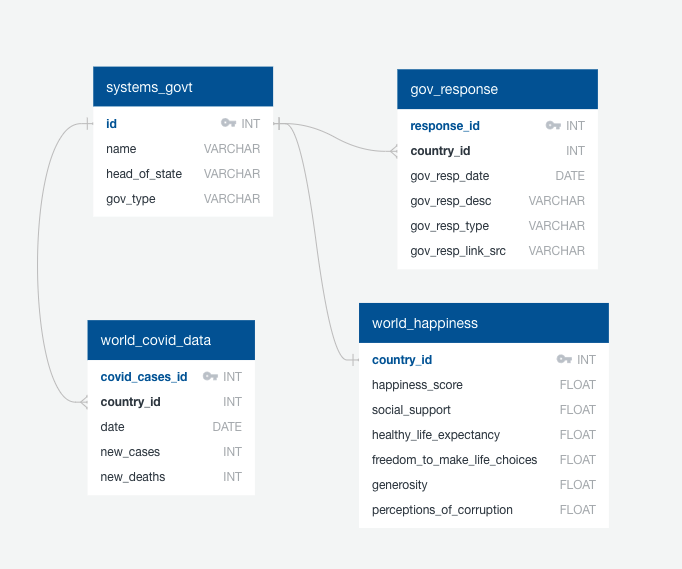
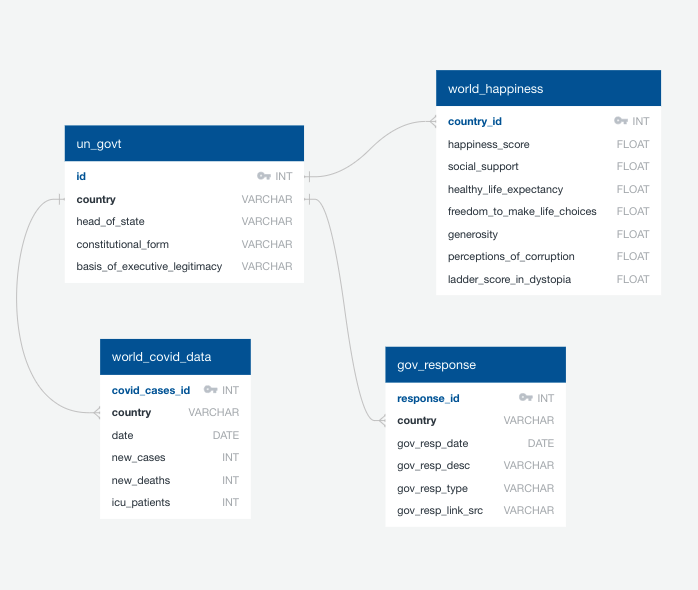
Readme

diff --git a/Tamey_working_directory/readme.md b/Tamey_working_directory/readme.md
@@ -6,46 +6,62 @@ Members: Avery Croley, Karen Pearson, Tamara Washington
 ![globe_image.png](images/globe_image.png)
 
 ### **Project Overview**
-Create a database that combines datasets regarding: 2020 World Happiness index, world deaths from Covid-19 and governments responses around the world.
+The Covid-19 pandemic has changed the world in unimaginable ways. It is arguable the worse pandemic the world has seen in 100 years. No aspect of life was left untouched including work, schools, social impacts and the economy. 
+
+Our Covid 19 Happiness Database complies data from countries around the world and can be used to see how Covid-19 factors affect the happiness score of that population.
+
+Queries our database can answer;
+
+- What type of government had the happiest/unhappiest outcome during the year with Covid-19?
+- What countries were the happiest/unhappiest because of the governments positive/negative actions due to Covid-19.
+- Which type of governments and countries did the best to reduce the number of deaths/cases due to Covid-19?
 
 ---
 ### **Extract**
-*World Happiness Report 2020*
+[World Happiness Report 2020](https://www.kaggle.com/londeen/world-happiness-report-2020 "World Happiness Report 2020")
 
-This file contains the Happiness Score for 153 countries along with the factors used to explain the score. The Happiness Score is a national average of the responses to the main life evaluation question asked in the Gallup World Poll (GWP).
+This CSV file contains the Happiness Score for 153 countries along with the factors used to explain the score. The Happiness Score is a national average of the responses to the main life evaluation question asked in the Gallup World Poll (GWP).
 
-*List of countries by system of government*
+[List of countries by system of government](https://en.wikipedia.org/wiki/List_of_countries_by_system_of_government "List of countries by system of government")
 
-ADD SNIPPET 
+This is a table of countries by systems of government. Wikipedia.org was scraped and read into a dataframe using Pandas. 
 
-*Our World in Data COVID-19 Dataset*
+~~~Python
+link = "https://en.wikipedia.org/wiki/List_of_countries_by_system_of_government"
+tables = pd.read_html(link,header=0)
+~~~
 
-In this document reports and visualizes the data on confirmed cases and deaths from Johns Hopkins University (JHU).
+
+[Our World in Data COVID-19 Dataset](https://ourworldindata.org/coronavirus-source-data "Our World in Data COVID-19 Dataset")
+
+This document reports and visualizes the data on confirmed cases and deaths from Johns Hopkins University.
 
 
-*COVID-19 Government Responses*
+[COVID-19 Government Responses](https://data.world/liz-friedman/covid-19-government-responses-coronanet-research-project "COVID-19 Government Responses")
 
-The CoronaNet Research Project aims to collect as much information as possible about the various fine-grained actions governments are taking to defeat the coronavirus. 
+The CoronaNet Research Project aims to collect as much information as possible about the various fine-grained actions governments are taking to defeat the coronavirus. This is made available in CSV format.
 
 ---
 ### **Transform**
+All CSV and HTML files were read into Jupyter Notebook to transform our datasets. 
+
 To address data integrity we;
 
-Utilized Jupyter Notebook and various Pandas functions to load our CSV and HTML files.
+- Reviewed the files and transformed into data frames. 
+- Some countries were removed due to lack of data.
+- Country names were standardized to be consistent across all tables.
+- Replaced null values on the list of countries wiki where there was "no constitutionally-defined basis to current regime"
 
-Identified the countries to be include, standardized nomenclature and removed countries not being reported due to lack of data.
 
-Replaced null values on the list of countries wiki where no constitutionally-defined basis to current regime was found.
-
-ADD AN IMAGE
+![kwn_transform.png](Images/kwn_transform.png)
 
 ---
 
 ### **Load**
 
-GET MORE INFO FROM KAREN
+We started by reviewing our data and constructing an ERD and established tables and columns. An engine was constructed to be connect with postgres and loaded our schema.
 
-![ERD_team_4.png](images/ERD_team_4.png)
+![ERD_team_4.png](Images/ERD_team_4.png)
 
 ---
 
